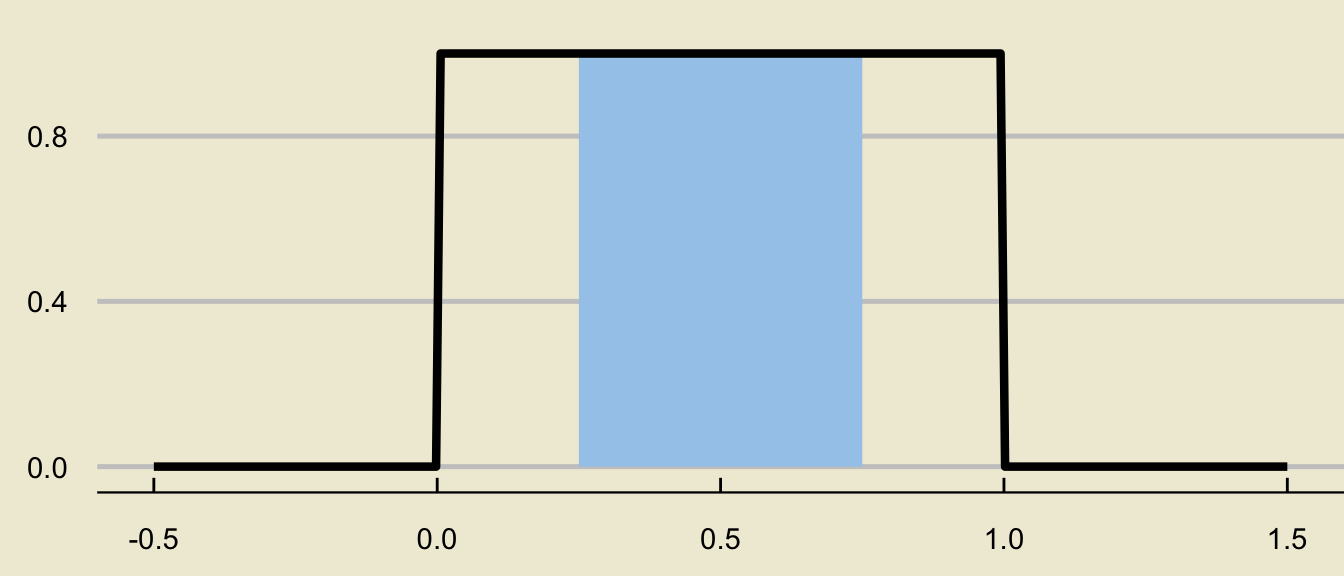
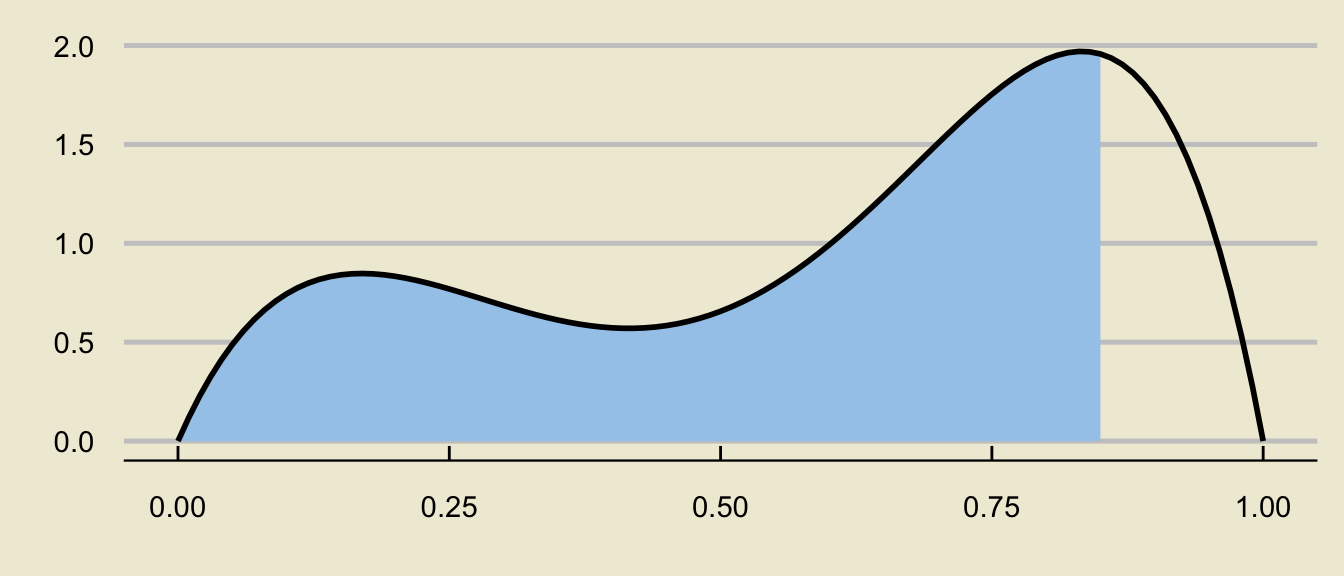
Remove uniform graph on review lec

diff --git a/docs/Pages/Lectures/Lecture15/Lec15.html b/docs/Pages/Lectures/Lecture15/Lec15.html
@@ -31,71 +31,6 @@
       margin: 0 0.8em 0.2em -1em; /* quarto-specific, see https://github.com/quarto-dev/quarto-cli/issues/4556 */ 
       vertical-align: middle;
     }
-    /* CSS for syntax highlighting */
-    pre > code.sourceCode { white-space: pre; position: relative; }
-    pre > code.sourceCode > span { display: inline-block; line-height: 1.25; }
-    pre > code.sourceCode > span:empty { height: 1.2em; }
-    .sourceCode { overflow: visible; }
-    code.sourceCode > span { color: inherit; text-decoration: inherit; }
-    div.sourceCode { margin: 1em 0; }
-    pre.sourceCode { margin: 0; }
-    @media screen {
-    div.sourceCode { overflow: auto; }
-    }
-    @media print {
-    pre > code.sourceCode { white-space: pre-wrap; }
-    pre > code.sourceCode > span { text-indent: -5em; padding-left: 5em; }
-    }
-    pre.numberSource code
-      { counter-reset: source-line 0; }
-    pre.numberSource code > span
-      { position: relative; left: -4em; counter-increment: source-line; }
-    pre.numberSource code > span > a:first-child::before
-      { content: counter(source-line);
-        position: relative; left: -1em; text-align: right; vertical-align: baseline;
-        border: none; display: inline-block;
-        -webkit-touch-callout: none; -webkit-user-select: none;
-        -khtml-user-select: none; -moz-user-select: none;
-        -ms-user-select: none; user-select: none;
-        padding: 0 4px; width: 4em;
-        color: #aaaaaa;
-      }
-    pre.numberSource { margin-left: 3em; border-left: 1px solid #aaaaaa;  padding-left: 4px; }
-    div.sourceCode
-      { color: #003b4f; background-color: #f1f3f5; }
-    @media screen {
-    pre > code.sourceCode > span > a:first-child::before { text-decoration: underline; }
-    }
-    code span { color: #003b4f; } /* Normal */
-    code span.al { color: #ad0000; } /* Alert */
-    code span.an { color: #5e5e5e; } /* Annotation */
-    code span.at { color: #657422; } /* Attribute */
-    code span.bn { color: #ad0000; } /* BaseN */
-    code span.bu { } /* BuiltIn */
-    code span.cf { color: #003b4f; } /* ControlFlow */
-    code span.ch { color: #20794d; } /* Char */
-    code span.cn { color: #8f5902; } /* Constant */
-    code span.co { color: #5e5e5e; } /* Comment */
-    code span.cv { color: #5e5e5e; font-style: italic; } /* CommentVar */
-    code span.do { color: #5e5e5e; font-style: italic; } /* Documentation */
-    code span.dt { color: #ad0000; } /* DataType */
-    code span.dv { color: #ad0000; } /* DecVal */
-    code span.er { color: #ad0000; } /* Error */
-    code span.ex { } /* Extension */
-    code span.fl { color: #ad0000; } /* Float */
-    code span.fu { color: #4758ab; } /* Function */
-    code span.im { color: #00769e; } /* Import */
-    code span.in { color: #5e5e5e; } /* Information */
-    code span.kw { color: #003b4f; } /* Keyword */
-    code span.op { color: #5e5e5e; } /* Operator */
-    code span.ot { color: #003b4f; } /* Other */
-    code span.pp { color: #ad0000; } /* Preprocessor */
-    code span.sc { color: #5e5e5e; } /* SpecialChar */
-    code span.ss { color: #20794d; } /* SpecialString */
-    code span.st { color: #20794d; } /* String */
-    code span.va { color: #111111; } /* Variable */
-    code span.vs { color: #20794d; } /* VerbatimString */
-    code span.wa { color: #5e5e5e; font-style: italic; } /* Warning */
   </style>
   <link rel="stylesheet" href="../../../site_libs/revealjs/dist/theme/quarto.css">
   <link href="../../../site_libs/revealjs/plugin/quarto-line-highlight/line-highlight.css" rel="stylesheet">
@@ -388,8 +323,6 @@
       margin-right: 0; 
     }
   </style>
-  <script type="module" src="../../../site_libs/quarto-ojs/quarto-ojs-runtime.js"></script>
-  <link href="../../../site_libs/quarto-ojs/quarto-ojs.css" rel="stylesheet">
 </head>
 <body class="quarto-light">
   <div class="reveal">
@@ -438,190 +371,6 @@
 <p><img data-src="unif.svg" style="width:60.0%"></p>
 </div>
 </section>
-<section id="effect-of-changing-a-and-b" class="slide level2">
-<h2>Effect of Changing <span class="math inline">\(a\)</span> and <span class="math inline">\(b\)</span></h2>
-<div class="cell">
-<div class="sourceCode cell-code hidden" id="cb1" data-startfrom="86" data-source-offset="-0"><pre class="sourceCode numberSource js number-lines code-with-copy"><code class="sourceCode javascript" style="counter-reset: source-line 85;"><span id="cb1-86"><a href="#cb1-86"></a>viewof a <span class="op">=</span> Inputs<span class="op">.</span><span class="fu">range</span>(</span>
-<span id="cb1-87"><a href="#cb1-87"></a>  [<span class="op">-</span><span class="dv">3</span><span class="op">,</span> <span class="dv">3</span>]<span class="op">,</span> </span>
-<span id="cb1-88"><a href="#cb1-88"></a>  {<span class="dt">value</span><span class="op">:</span> <span class="dv">0</span><span class="op">,</span> <span class="dt">step</span><span class="op">:</span> <span class="fl">0.1</span><span class="op">,</span> <span class="dt">label</span><span class="op">:</span> <span class="st">"a="</span>}</span>
-<span id="cb1-89"><a href="#cb1-89"></a>)</span>
-<span id="cb1-90"><a href="#cb1-90"></a></span>
-<span id="cb1-91"><a href="#cb1-91"></a>viewof b <span class="op">=</span> Inputs<span class="op">.</span><span class="fu">range</span>(</span>
-<span id="cb1-92"><a href="#cb1-92"></a>  [<span class="op">-</span><span class="dv">3</span><span class="op">,</span> <span class="dv">3</span>]<span class="op">,</span> </span>
-<span id="cb1-93"><a href="#cb1-93"></a>  {<span class="dt">value</span><span class="op">:</span> <span class="dv">1</span><span class="op">,</span> <span class="dt">step</span><span class="op">:</span> <span class="fl">0.1</span><span class="op">,</span> <span class="dt">label</span><span class="op">:</span> <span class="st">"b="</span>}</span>
-<span id="cb1-94"><a href="#cb1-94"></a>)</span></code><button title="Copy to Clipboard" class="code-copy-button"><i class="bi"></i></button></pre></div>
-<div class="cell-output cell-output-display">
-<div>
-<div id="ojs-cell-1-1" data-nodetype="declaration">
-
-</div>
-</div>
-</div>
-<div class="cell-output cell-output-display">
-<div>
-<div id="ojs-cell-1-2" data-nodetype="declaration">
-
-</div>
-</div>
-</div>
-</div>
-<div class="cell">
-<div class="sourceCode cell-code hidden" id="cb2" data-startfrom="98" data-source-offset="-0"><pre class="sourceCode numberSource js number-lines code-with-copy"><code class="sourceCode javascript" style="counter-reset: source-line 97;"><span id="cb2-98"><a href="#cb2-98"></a>margin2 <span class="op">=</span> ({<span class="dt">top</span><span class="op">:</span> <span class="dv">20</span><span class="op">,</span> <span class="dt">right</span><span class="op">:</span> <span class="dv">30</span><span class="op">,</span> <span class="dt">bottom</span><span class="op">:</span> <span class="dv">30</span><span class="op">,</span> <span class="dt">left</span><span class="op">:</span> <span class="dv">40</span>})</span>
-<span id="cb2-99"><a href="#cb2-99"></a></span>
-<span id="cb2-100"><a href="#cb2-100"></a>height2 <span class="op">=</span> <span class="dv">400</span></span>
-<span id="cb2-101"><a href="#cb2-101"></a></span>
-<span id="cb2-102"><a href="#cb2-102"></a>x_values2 <span class="op">=</span> d32<span class="op">.</span><span class="fu">scaleLinear</span>()</span>
-<span id="cb2-103"><a href="#cb2-103"></a><span class="op">.</span><span class="fu">domain</span>(d32<span class="op">.</span><span class="fu">extent</span>(data2<span class="op">,</span> d <span class="kw">=&gt;</span> d<span class="op">.</span><span class="at">x</span>))</span>
-<span id="cb2-104"><a href="#cb2-104"></a><span class="op">.</span><span class="fu">range</span>([margin2<span class="op">.</span><span class="at">left</span><span class="op">,</span> width <span class="op">-</span> margin2<span class="op">.</span><span class="at">right</span>])</span>
-<span id="cb2-105"><a href="#cb2-105"></a></span>
-<span id="cb2-106"><a href="#cb2-106"></a>y_values2 <span class="op">=</span> d32<span class="op">.</span><span class="fu">scaleLinear</span>()</span>
-<span id="cb2-107"><a href="#cb2-107"></a><span class="op">.</span><span class="fu">domain</span>([<span class="bu">Math</span><span class="op">.</span><span class="fu">min</span>(d32<span class="op">.</span><span class="fu">min</span>(data2<span class="op">,</span> d <span class="kw">=&gt;</span> d<span class="op">.</span><span class="at">y</span>)<span class="op">,</span><span class="dv">0</span>)<span class="op">,</span> <span class="bu">Math</span><span class="op">.</span><span class="fu">max</span>(<span class="dv">1</span><span class="op">,</span>d32<span class="op">.</span><span class="fu">max</span>(data2<span class="op">,</span> d <span class="kw">=&gt;</span> d<span class="op">.</span><span class="at">y</span>))])<span class="op">.</span><span class="fu">nice</span>()</span>
-<span id="cb2-108"><a href="#cb2-108"></a><span class="op">.</span><span class="fu">range</span>([height2 <span class="op">-</span> margin2<span class="op">.</span><span class="at">bottom</span><span class="op">,</span> margin2<span class="op">.</span><span class="at">top</span>])</span>
-<span id="cb2-109"><a href="#cb2-109"></a></span>
-<span id="cb2-110"><a href="#cb2-110"></a>line2 <span class="op">=</span> d32<span class="op">.</span><span class="fu">line</span>()</span>
-<span id="cb2-111"><a href="#cb2-111"></a><span class="op">.</span><span class="fu">x</span>(d <span class="kw">=&gt;</span> <span class="fu">x_values2</span>(d<span class="op">.</span><span class="at">x</span>))</span>
-<span id="cb2-112"><a href="#cb2-112"></a><span class="op">.</span><span class="fu">y</span>(d <span class="kw">=&gt;</span> <span class="fu">y_values2</span>(d<span class="op">.</span><span class="at">y</span>))</span>
-<span id="cb2-113"><a href="#cb2-113"></a></span>
-<span id="cb2-114"><a href="#cb2-114"></a>xAxis2 <span class="op">=</span> g <span class="kw">=&gt;</span> g</span>
-<span id="cb2-115"><a href="#cb2-115"></a><span class="op">.</span><span class="fu">attr</span>(<span class="st">"transform"</span><span class="op">,</span> <span class="vs">`translate(0,</span><span class="sc">${</span>height2 <span class="op">-</span> margin2<span class="op">.</span><span class="at">bottom</span><span class="sc">}</span><span class="vs">)`</span>)</span>
-<span id="cb2-116"><a href="#cb2-116"></a><span class="op">.</span><span class="fu">call</span>(d32<span class="op">.</span><span class="fu">axisBottom</span>(x_values2)</span>
-<span id="cb2-117"><a href="#cb2-117"></a>      <span class="op">.</span><span class="fu">ticks</span>(width <span class="op">/</span> <span class="dv">80</span>)</span>
-<span id="cb2-118"><a href="#cb2-118"></a>      <span class="op">.</span><span class="fu">tickSizeOuter</span>(<span class="dv">0</span>))</span>
-<span id="cb2-119"><a href="#cb2-119"></a></span>
-<span id="cb2-120"><a href="#cb2-120"></a>yAxis2 <span class="op">=</span> g <span class="kw">=&gt;</span> g</span>
-<span id="cb2-121"><a href="#cb2-121"></a><span class="op">.</span><span class="fu">attr</span>(<span class="st">"transform"</span><span class="op">,</span> <span class="vs">`translate(</span><span class="sc">${</span>margin2<span class="op">.</span><span class="at">left</span><span class="sc">}</span><span class="vs">,0)`</span>)</span>
-<span id="cb2-122"><a href="#cb2-122"></a><span class="op">.</span><span class="fu">call</span>(d32<span class="op">.</span><span class="fu">axisLeft</span>(y_values2)</span>
-<span id="cb2-123"><a href="#cb2-123"></a>      <span class="op">.</span><span class="fu">tickValues</span>(d32<span class="op">.</span><span class="fu">scaleLinear</span>()<span class="op">.</span><span class="fu">domain</span>(y_values2<span class="op">.</span><span class="fu">domain</span>())<span class="op">.</span><span class="fu">ticks</span>()))</span>
-<span id="cb2-124"><a href="#cb2-124"></a></span>
-<span id="cb2-125"><a href="#cb2-125"></a><span class="kw">function</span> <span class="fu">unif_pdf</span> (input_value<span class="op">,</span> mu<span class="op">,</span> sigsq) {</span>
-<span id="cb2-126"><a href="#cb2-126"></a><span class="cf">if</span>(input_value <span class="op">&lt;</span> a){</span>
-<span id="cb2-127"><a href="#cb2-127"></a>  <span class="cf">return</span> <span class="dv">0</span></span>
-<span id="cb2-128"><a href="#cb2-128"></a>} <span class="cf">else</span> <span class="cf">if</span>(input_value <span class="op">&gt;</span> b){</span>
-<span id="cb2-129"><a href="#cb2-129"></a>  <span class="cf">return</span> <span class="dv">0</span></span>
-<span id="cb2-130"><a href="#cb2-130"></a>} <span class="cf">else</span>{</span>
-<span id="cb2-131"><a href="#cb2-131"></a>  <span class="cf">return</span> <span class="dv">1</span> <span class="op">/</span> (b <span class="op">-</span> a)</span>
-<span id="cb2-132"><a href="#cb2-132"></a>}</span>
-<span id="cb2-133"><a href="#cb2-133"></a>}</span>
-<span id="cb2-134"><a href="#cb2-134"></a></span>
-<span id="cb2-135"><a href="#cb2-135"></a>abs_x2<span class="op">=</span><span class="dv">6</span></span>
-<span id="cb2-136"><a href="#cb2-136"></a></span>
-<span id="cb2-137"><a href="#cb2-137"></a>data2 <span class="op">=</span> {</span>
-<span id="cb2-138"><a href="#cb2-138"></a>  <span class="kw">let</span> values <span class="op">=</span> []<span class="op">;</span></span>
-<span id="cb2-139"><a href="#cb2-139"></a>  <span class="cf">for</span> (<span class="kw">let</span> x <span class="op">=</span> <span class="op">-</span>abs_x2<span class="op">;</span> x <span class="op">&lt;</span> abs_x2<span class="op">;</span> x<span class="op">=</span>x<span class="op">+</span><span class="fl">0.01</span>) values<span class="op">.</span><span class="fu">push</span>({<span class="st">"x"</span><span class="op">:</span>x<span class="op">,</span><span class="st">"y"</span><span class="op">:</span><span class="fu">unif_pdf</span>(x<span class="op">,</span> µ<span class="op">,</span> sigsquared)})<span class="op">;</span></span>
-<span id="cb2-140"><a href="#cb2-140"></a>  <span class="cf">return</span> values<span class="op">;</span></span>
-<span id="cb2-141"><a href="#cb2-141"></a>}</span>
-<span id="cb2-142"><a href="#cb2-142"></a></span>
-<span id="cb2-143"><a href="#cb2-143"></a>d32 <span class="op">=</span> <span class="pp">require</span>(<span class="st">"https://d3js.org/d3.v5.min.js"</span>)</span>
-<span id="cb2-144"><a href="#cb2-144"></a></span>
-<span id="cb2-145"><a href="#cb2-145"></a>chart2 <span class="op">=</span> {</span>
-<span id="cb2-146"><a href="#cb2-146"></a>  <span class="kw">const</span> svg <span class="op">=</span> d32<span class="op">.</span><span class="fu">select</span>(DOM<span class="op">.</span><span class="fu">svg</span>(width<span class="op">,</span> height2))<span class="op">;</span></span>
-<span id="cb2-147"><a href="#cb2-147"></a>  </span>
-<span id="cb2-148"><a href="#cb2-148"></a>  svg<span class="op">.</span><span class="fu">append</span>(<span class="st">"g"</span>)</span>
-<span id="cb2-149"><a href="#cb2-149"></a>  <span class="op">.</span><span class="fu">call</span>(xAxis2)<span class="op">;</span></span>
-<span id="cb2-150"><a href="#cb2-150"></a>  </span>
-<span id="cb2-151"><a href="#cb2-151"></a>  svg<span class="op">.</span><span class="fu">append</span>(<span class="st">"g"</span>)</span>
-<span id="cb2-152"><a href="#cb2-152"></a>  <span class="op">.</span><span class="fu">call</span>(yAxis2)<span class="op">;</span></span>
-<span id="cb2-153"><a href="#cb2-153"></a>  </span>
-<span id="cb2-154"><a href="#cb2-154"></a>  svg<span class="op">.</span><span class="fu">append</span>(<span class="st">"path"</span>)</span>
-<span id="cb2-155"><a href="#cb2-155"></a>  <span class="op">.</span><span class="fu">datum</span>(data2)</span>
-<span id="cb2-156"><a href="#cb2-156"></a>  <span class="op">.</span><span class="fu">attr</span>(<span class="st">"fill"</span><span class="op">,</span> <span class="st">"none"</span>)</span>
-<span id="cb2-157"><a href="#cb2-157"></a>  <span class="op">.</span><span class="fu">attr</span>(<span class="st">"stroke"</span><span class="op">,</span> <span class="st">"steelblue"</span>)</span>
-<span id="cb2-158"><a href="#cb2-158"></a>  <span class="op">.</span><span class="fu">attr</span>(<span class="st">"stroke-width"</span><span class="op">,</span> <span class="dv">4</span>)</span>
-<span id="cb2-159"><a href="#cb2-159"></a>  <span class="op">.</span><span class="fu">attr</span>(<span class="st">"stroke-linejoin"</span><span class="op">,</span> <span class="st">"round"</span>)</span>
-<span id="cb2-160"><a href="#cb2-160"></a>  <span class="op">.</span><span class="fu">attr</span>(<span class="st">"stroke-linecap"</span><span class="op">,</span> <span class="st">"round"</span>)</span>
-<span id="cb2-161"><a href="#cb2-161"></a>  <span class="op">.</span><span class="fu">attr</span>(<span class="st">"d"</span><span class="op">,</span> line)<span class="op">;</span></span>
-<span id="cb2-162"><a href="#cb2-162"></a>  </span>
-<span id="cb2-163"><a href="#cb2-163"></a>  <span class="cf">return</span> svg<span class="op">.</span><span class="fu">node</span>()<span class="op">;</span></span>
-<span id="cb2-164"><a href="#cb2-164"></a>}</span></code><button title="Copy to Clipboard" class="code-copy-button"><i class="bi"></i></button></pre></div>
-<div class="cell-output cell-output-display">
-<div>
-<div id="ojs-cell-2-1" data-nodetype="declaration">
-
-</div>
-</div>
-</div>
-<div class="cell-output cell-output-display">
-<div>
-<div id="ojs-cell-2-2" data-nodetype="declaration">
-
-</div>
-</div>
-</div>
-<div class="cell-output cell-output-display">
-<div>
-<div id="ojs-cell-2-3" data-nodetype="declaration">
-
-</div>
-</div>
-</div>
-<div class="cell-output cell-output-display">
-<div>
-<div id="ojs-cell-2-4" data-nodetype="declaration">
-
-</div>
-</div>
-</div>
-<div class="cell-output cell-output-display">
-<div>
-<div id="ojs-cell-2-5" data-nodetype="declaration">
-
-</div>
-</div>
-</div>
-<div class="cell-output cell-output-display">
-<div>
-<div id="ojs-cell-2-6" data-nodetype="declaration">
-
-</div>
-</div>
-</div>
-<div class="cell-output cell-output-display">
-<div>
-<div id="ojs-cell-2-7" data-nodetype="declaration">
-
-</div>
-</div>
-</div>
-<div class="cell-output cell-output-display">
-<div>
-<div id="ojs-cell-2-8" data-nodetype="declaration">
-
-</div>
-</div>
-</div>
-<div class="cell-output cell-output-display">
-<div>
-<div id="ojs-cell-2-9" data-nodetype="declaration">
-
-</div>
-</div>
-</div>
-<div class="cell-output cell-output-display">
-<div>
-<div id="ojs-cell-2-10" data-nodetype="declaration">
-
-</div>
-</div>
-</div>
-<div class="cell-output cell-output-display">
-<div>
-<div id="ojs-cell-2-11" data-nodetype="declaration">
-
-</div>
-</div>
-</div>
-<div class="cell-output cell-output-display">
-<div>
-<div id="ojs-cell-2-12" data-nodetype="declaration">
-
-</div>
-</div>
-</div>
-</div>
-<div style="font-size:18px; text-align:right">
-<p><em>Credit to https://observablehq.com/<span class="citation" data-cites="dswalter/normal-distribution">@dswalter/normal-distribution</span> for the base of the applet code</em></p>
-</div>
-</section>
 <section id="uniform-distribution-1" class="slide level2" style="font-size:32px">
 <h2>Uniform Distribution</h2>
 <ul>
@@ -633,7 +382,7 @@
 <div class="cell-output-display">
 <div class="quarto-figure quarto-figure-center">
 <figure>
-<p><img data-src="Lec15_files/figure-revealjs/unnamed-chunk-4-1.png" width="672"></p>
+<p><img data-src="Lec15_files/figure-revealjs/unnamed-chunk-2-1.png" width="672"></p>
 </figure>
 </div>
 </div>
@@ -655,7 +404,7 @@
 <div class="cell-output-display">
 <div class="quarto-figure quarto-figure-center">
 <figure>
-<p><img data-src="Lec15_files/figure-revealjs/unnamed-chunk-5-1.png" width="672"></p>
+<p><img data-src="Lec15_files/figure-revealjs/unnamed-chunk-3-1.png" width="672"></p>
 </figure>
 </div>
 </div>
@@ -675,7 +424,7 @@ can be decomposed as</p>
 <div class="cell-output-display">
 <div class="quarto-figure quarto-figure-center">
 <figure>
-<p><img data-src="Lec15_files/figure-revealjs/unnamed-chunk-6-1.png" width="672"></p>
+<p><img data-src="Lec15_files/figure-revealjs/unnamed-chunk-4-1.png" width="672"></p>
 </figure>
 </div>
 </div>
@@ -692,7 +441,7 @@ can be decomposed as</p>
 <div class="cell-output-display">
 <div class="quarto-figure quarto-figure-center">
 <figure>
-<p><img data-src="Lec15_files/figure-revealjs/unnamed-chunk-7-1.png" width="672"></p>
+<p><img data-src="Lec15_files/figure-revealjs/unnamed-chunk-5-1.png" width="672"></p>
 </figure>
 </div>
 </div>
@@ -1301,17 +1050,6 @@ H_A:    p \neq 0.24
           RevealZoom
         ]
       });
-    </script>
-    <script type="ojs-module-contents">
-    {"contents":[{"methodName":"interpret","cellName":"ojs-cell-1","inline":false,"source":"viewof a = Inputs.range(\n  [-3, 3], \n  {value: 0, step: 0.1, label: \"a=\"}\n)\n\nviewof b = Inputs.range(\n  [-3, 3], \n  {value: 1, step: 0.1, label: \"b=\"}\n)\n"},{"methodName":"interpret","cellName":"ojs-cell-2","inline":false,"source":"margin2 = ({top: 20, right: 30, bottom: 30, left: 40})\n\nheight2 = 400\n\nx_values2 = d32.scaleLinear()\n.domain(d32.extent(data2, d => d.x))\n.range([margin2.left, width - margin2.right])\n\ny_values2 = d32.scaleLinear()\n.domain([Math.min(d32.min(data2, d => d.y),0), Math.max(1,d32.max(data2, d => d.y))]).nice()\n.range([height2 - margin2.bottom, margin2.top])\n\nline2 = d32.line()\n.x(d => x_values2(d.x))\n.y(d => y_values2(d.y))\n\nxAxis2 = g => g\n.attr(\"transform\", `translate(0,${height2 - margin2.bottom})`)\n.call(d32.axisBottom(x_values2)\n      .ticks(width / 80)\n      .tickSizeOuter(0))\n\nyAxis2 = g => g\n.attr(\"transform\", `translate(${margin2.left},0)`)\n.call(d32.axisLeft(y_values2)\n      .tickValues(d32.scaleLinear().domain(y_values2.domain()).ticks()))\n\nfunction unif_pdf (input_value, mu, sigsq) {\nif(input_value < a){\n  return 0\n} else if(input_value > b){\n  return 0\n} else{\n  return 1 / (b - a)\n}\n}\n\nabs_x2=6\n\ndata2 = {\n  let values = [];\n  for (let x = -abs_x2; x < abs_x2; x=x+0.01) values.push({\"x\":x,\"y\":unif_pdf(x, µ, sigsquared)});\n  return values;\n}\n\nd32 = require(\"https://d3js.org/d3.v5.min.js\")\n\nchart2 = {\n  const svg = d32.select(DOM.svg(width, height2));\n  \n  svg.append(\"g\")\n  .call(xAxis2);\n  \n  svg.append(\"g\")\n  .call(yAxis2);\n  \n  svg.append(\"path\")\n  .datum(data2)\n  .attr(\"fill\", \"none\")\n  .attr(\"stroke\", \"steelblue\")\n  .attr(\"stroke-width\", 4)\n  .attr(\"stroke-linejoin\", \"round\")\n  .attr(\"stroke-linecap\", \"round\")\n  .attr(\"d\", line);\n  \n  return svg.node();\n}\n\n"},{"methodName":"interpretQuiet","source":"shinyInput('a')"},{"methodName":"interpretQuiet","source":"shinyInput('b')"}]}
-    </script>
-    <script type="module">
-    if (window.location.protocol === "file:") { alert("The OJS runtime does not work with file:// URLs. Please use a web server to view this document."); }
-    window._ojs.paths.runtimeToDoc = "../../Pages/Lectures/Lecture15";
-    window._ojs.paths.runtimeToRoot = "../..";
-    window._ojs.paths.docToRoot = "../../..";
-    window._ojs.selfContained = false;
-    window._ojs.runtime.interpretFromScriptTags();
     </script>
     
     <script>

diff --git a/docs/site_libs/quarto-html/quarto-syntax-highlighting.css b/docs/site_libs/quarto-html/quarto-syntax-highlighting.css
@@ -33,7 +33,7 @@
 
 /* other quarto variables */
 :root {
-  --quarto-font-monospace: "Roboto Mono", monospace;
+  --quarto-font-monospace: SFMono-Regular, Menlo, Monaco, Consolas, "Liberation Mono", "Courier New", monospace;
 }
 
 pre > code.sourceCode > span {
